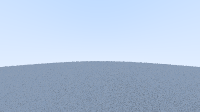
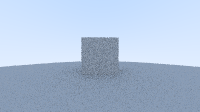
centralizando modelo e translacao

diff --git a/Atividade03/src/Model.py b/Atividade03/src/Model.py
@@ -108,6 +108,50 @@ class Model:
                     except Exception as e:
                         raise ValueError(f'Erro ao criar face com os índices especificados (algum índice de vértice é maior que o número de vértices). O erro ocorreu na linha {line_num + 1}:\n{line}') from e
     
+        x_min = None
+        x_max = None
+        y_min = None
+        y_max = None
+        z_min = None
+        z_max = None
+        x_mean = 0
+        y_mean = 0
+        z_mean = 0
+
+        for vertex in self.__vertexes:
+            if x_min is None or vertex.x < x_min:
+                x_min = vertex.x
+            if x_max is None or vertex.x > x_max:
+                x_max = vertex.x
+            
+            if y_min is None or vertex.y < y_min:
+                y_min = vertex.y
+            if y_max is None or vertex.y > y_max:
+                y_max = vertex.y
+            
+            if z_min is None or vertex.z < z_min:
+                z_min = vertex.z
+            if z_max is None or vertex.z > z_max:
+                z_max = vertex.z
+            
+            x_mean += vertex.x
+            y_mean += vertex.y
+            z_mean += vertex.z
+
+        x_mean /= len(self.__vertexes)
+        y_mean /= len(self.__vertexes)
+        z_mean /= len(self.__vertexes)
+        mass_center = Vec3([x_mean, y_mean, z_mean])
+
+        # Delta x, y, z para fazer possivel futura escala do modelo
+        delta_x = x_max - x_min
+        delta_y = y_max - y_min
+        delta_z = z_max - z_min
+
+        # Posicionando o modelo no centro do mundo (0, 0, 0)
+        self.translate(-mass_center)
+        
+
     @property
     def vertexes(self):
         '''
@@ -148,3 +192,29 @@ class Model:
             - list[TriangleFaceIndexes] - Lista de índices das faces do modelo.
         '''
         return self.__faces_indexes
+
+    def scale(self, scale_factor: float):
+        '''
+        Escala o modelo.
+
+        ---
+
+        Parâmetros:
+
+            - scale_factor: float - Fator de escala.
+        '''
+        for vertex in self.__vertexes:
+            vertex *= scale_factor
+    
+    def translate(self, translation_vector: Vec3):
+        '''
+        Translada o modelo.
+
+        ---
+
+        Parâmetros:
+
+            - translation_vector: Vec3 - Vetor de translação.
+        '''
+        for vertex in self.__vertexes:
+            vertex += translation_vector

diff --git a/Atividade04/src/classes/Camera.py b/Atividade04/src/classes/Camera.py
@@ -10,7 +10,6 @@ from Atividade04.src.utils import random_double
 
 from IPython.display import display
 from tqdm import tqdm
-from typing import Optional
 
 
 from math import sqrt
@@ -88,7 +87,6 @@ class Camera:
         image = Image(self.image_width, self.image_height)
         for j in tqdm(range(self.image_height)):
             for i in range(self.image_width):
-                # MUDOU AQUI
                 pixel_color = Color([0, 0, 0])
                 for _ in range(self.samples_per_pixel):
                     ray = self.get_ray(i, j)
@@ -101,14 +99,12 @@ class Camera:
         
         return image
 
-    # NOVO MÉTODO
     def get_ray(self, i: int, j: int) -> Ray:
         pixel_center = self.pixel00_loc + (i * self.pixel_delta_u) + (j * self.pixel_delta_v)
         pixel_sample = pixel_center + self.pixel_sample_square()
         
         return Ray(self.camera_center, pixel_sample - self.camera_center)
 
-    #NOVO MÉTODO
     def pixel_sample_square(self) -> Vec3:
         px = -0.5 + random_double()
         py = -0.5 + random_double()

diff --git a/Atividade04/src/classes/Triangle.py b/Atividade04/src/classes/Triangle.py
@@ -167,3 +167,29 @@ class Triangle(Hittable):
             normal = self.normal_1 / distance_edge_1_to_intersect_point + self.normal_2 / distance_edge_2_to_intersect_point + self.normal_3 / distance_edge_3_to_intersect_point
             normal = normal.unit_vector()
             return True, HitRecord(intersect_point, normal, t, ray)
+    
+    def scale(self, factor: float):
+        '''
+        Escala o triângulo.
+
+        ---
+
+        Parâmetros:
+
+            - factor: float - Fator de escala.
+        '''
+        for i in range(len(self.__vertexes)):
+            self.__vertexes[i] *= factor
+    
+    def translate(self, offset: Vec3):
+        '''
+        Translada o triângulo.
+
+        ---
+
+        Parâmetros:
+
+            - offset: Vec3 - Vetor de translação.
+        '''
+        for i in range(len(self.__vertexes)):
+            self.__vertexes[i] += offset
